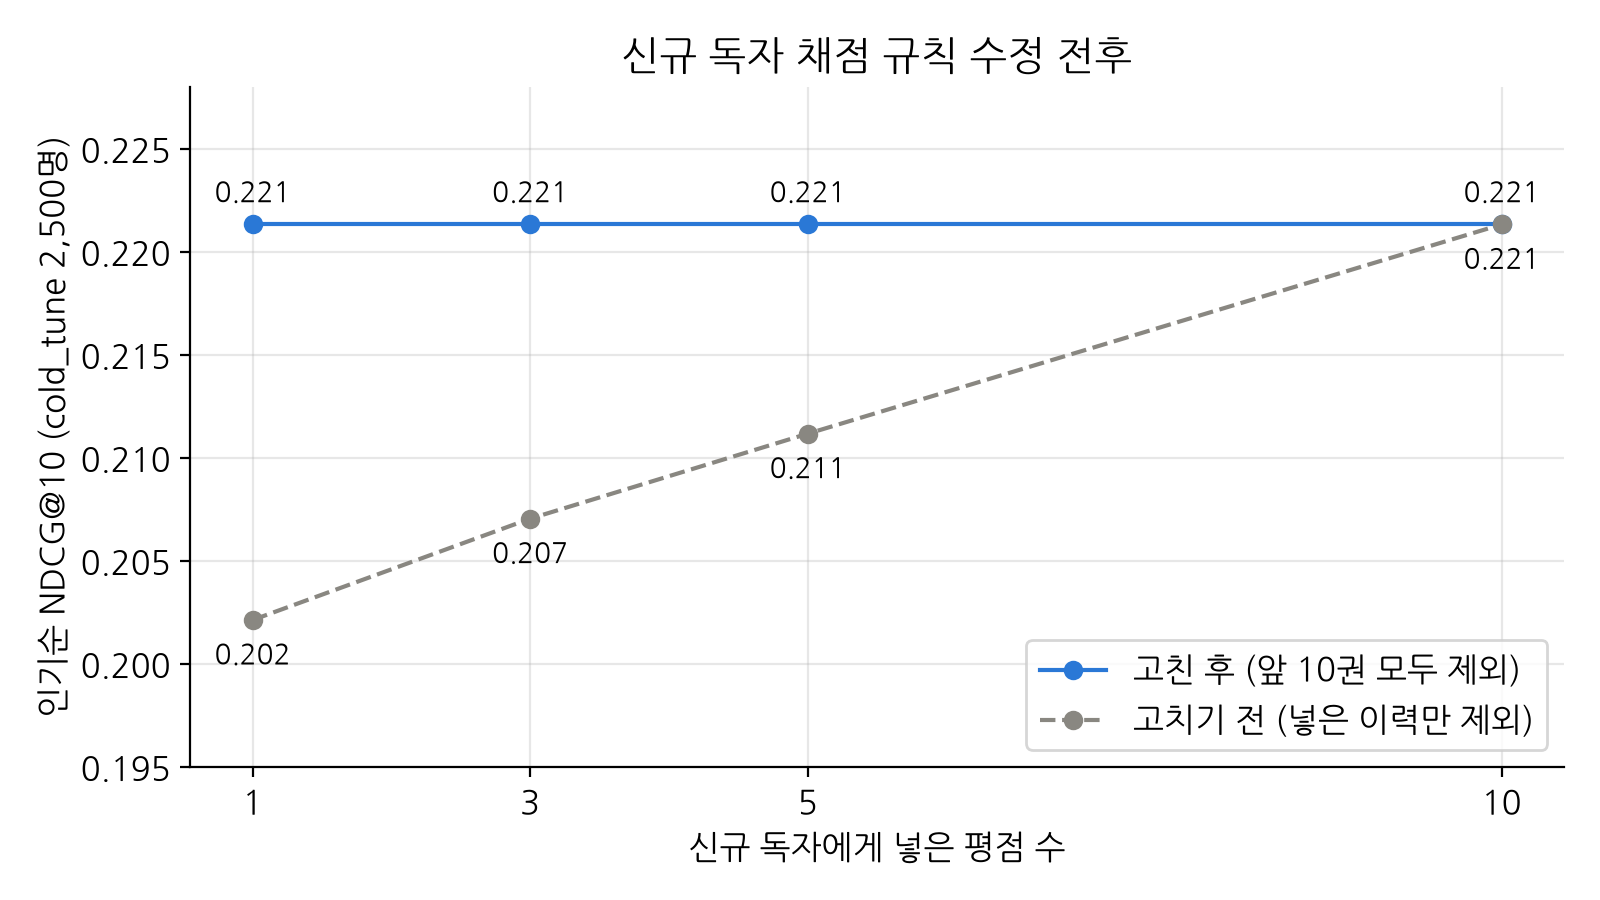
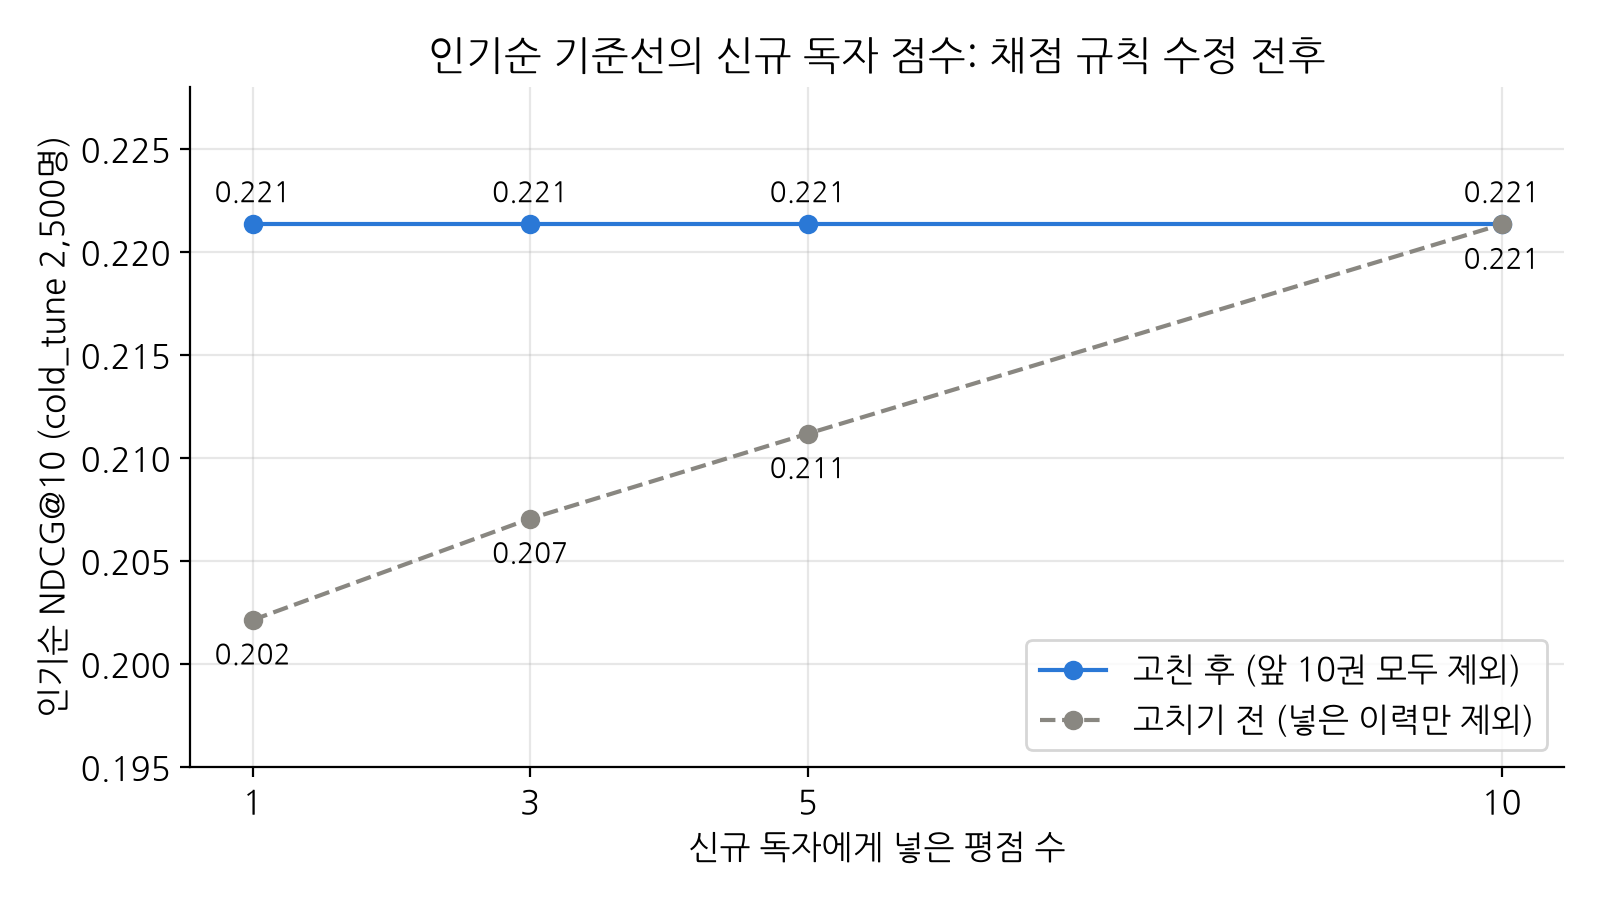
docs(S2): drop task ID from split figure and title the scoring chart as the popularity baseline

Changed region(s): [[0.25, 0.0311, 0.8438, 0.0933]]

diff --git a/scripts/plot_data_split.py b/scripts/plot_data_split.py
@@ -66,7 +66,7 @@ def main():
     ax.text(0.3 + 5 * 0.04, 0.045, "앞 10권은 모두 추천에서 제외", ha="center", va="top", fontsize=8.5, color="#3a3a38")
     ax.text(0.3 + 13 * 0.04, 0.12, "11번째부터 4점 이상 = 정답", ha="center", va="top", fontsize=8.5)
 
-    ax.set_title("데이터 분할 (A4)", fontsize=14, pad=4)
+    ax.set_title("데이터 분할", fontsize=14, pad=4)
     plot_style.save(fig, "A4_data_split")
 
 

diff --git a/scripts/plot_middle_book_fix.py b/scripts/plot_middle_book_fix.py
@@ -49,7 +49,7 @@ def main():
     ax.set_xticks([1, 3, 5, 10])
     ax.set_xlabel("신규 독자에게 넣은 평점 수")
     ax.set_ylabel("인기순 NDCG@10 (cold_tune 2,500명)")
-    ax.set_title("신규 독자 채점 규칙 수정 전후")
+    ax.set_title("인기순 기준선의 신규 독자 점수: 채점 규칙 수정 전후")
     ax.legend(loc="lower right")
     plot_style.save(fig, "A5_middle_book_fix")
 

diff --git a/docs/parts/data_evaluation.md b/docs/parts/data_evaluation.md
@@ -228,7 +228,7 @@
 - 원본 평점을 신규 독자 5,000명(학습에 전혀 쓰지 않음)과 일반 독자 48,424명으로 먼저 나누고, 일반 독자는 사람마다 시간순 70/15/15로 나눈 구조입니다. 아래 줄은 신규 독자 한 명을 어떻게 채점하는지 보여 줍니다.
 - 다시 만들기: `uv run python scripts/plot_data_split.py`
 
-![신규 독자 채점 규칙 수정 전후](../figures/A5_middle_book_fix.png)
+![인기순 기준선의 신규 독자 점수: 채점 규칙 수정 전후](../figures/A5_middle_book_fix.png)
 
 - 인기순은 독자의 이력을 보지 않아 평점을 몇 개 넣든 점수가 같아야 합니다. 고치기 전(회색 점선)에는 평점을 많이 넣을수록 점수가 올랐는데, 이는 모델이 나아져서가 아니라 이미 읽은 책이 틀림으로 세지는 채점 규칙 때문이었습니다. 고친 후(파란 선)에는 평점 수와 상관없이 0.221로 같아졌습니다.
 - 그래서 이제 신규 독자 그래프에서 평점이 늘수록 점수가 오르면, 그 차이는 채점 규칙이 아니라 모델이 실제로 나아진 효과입니다.
